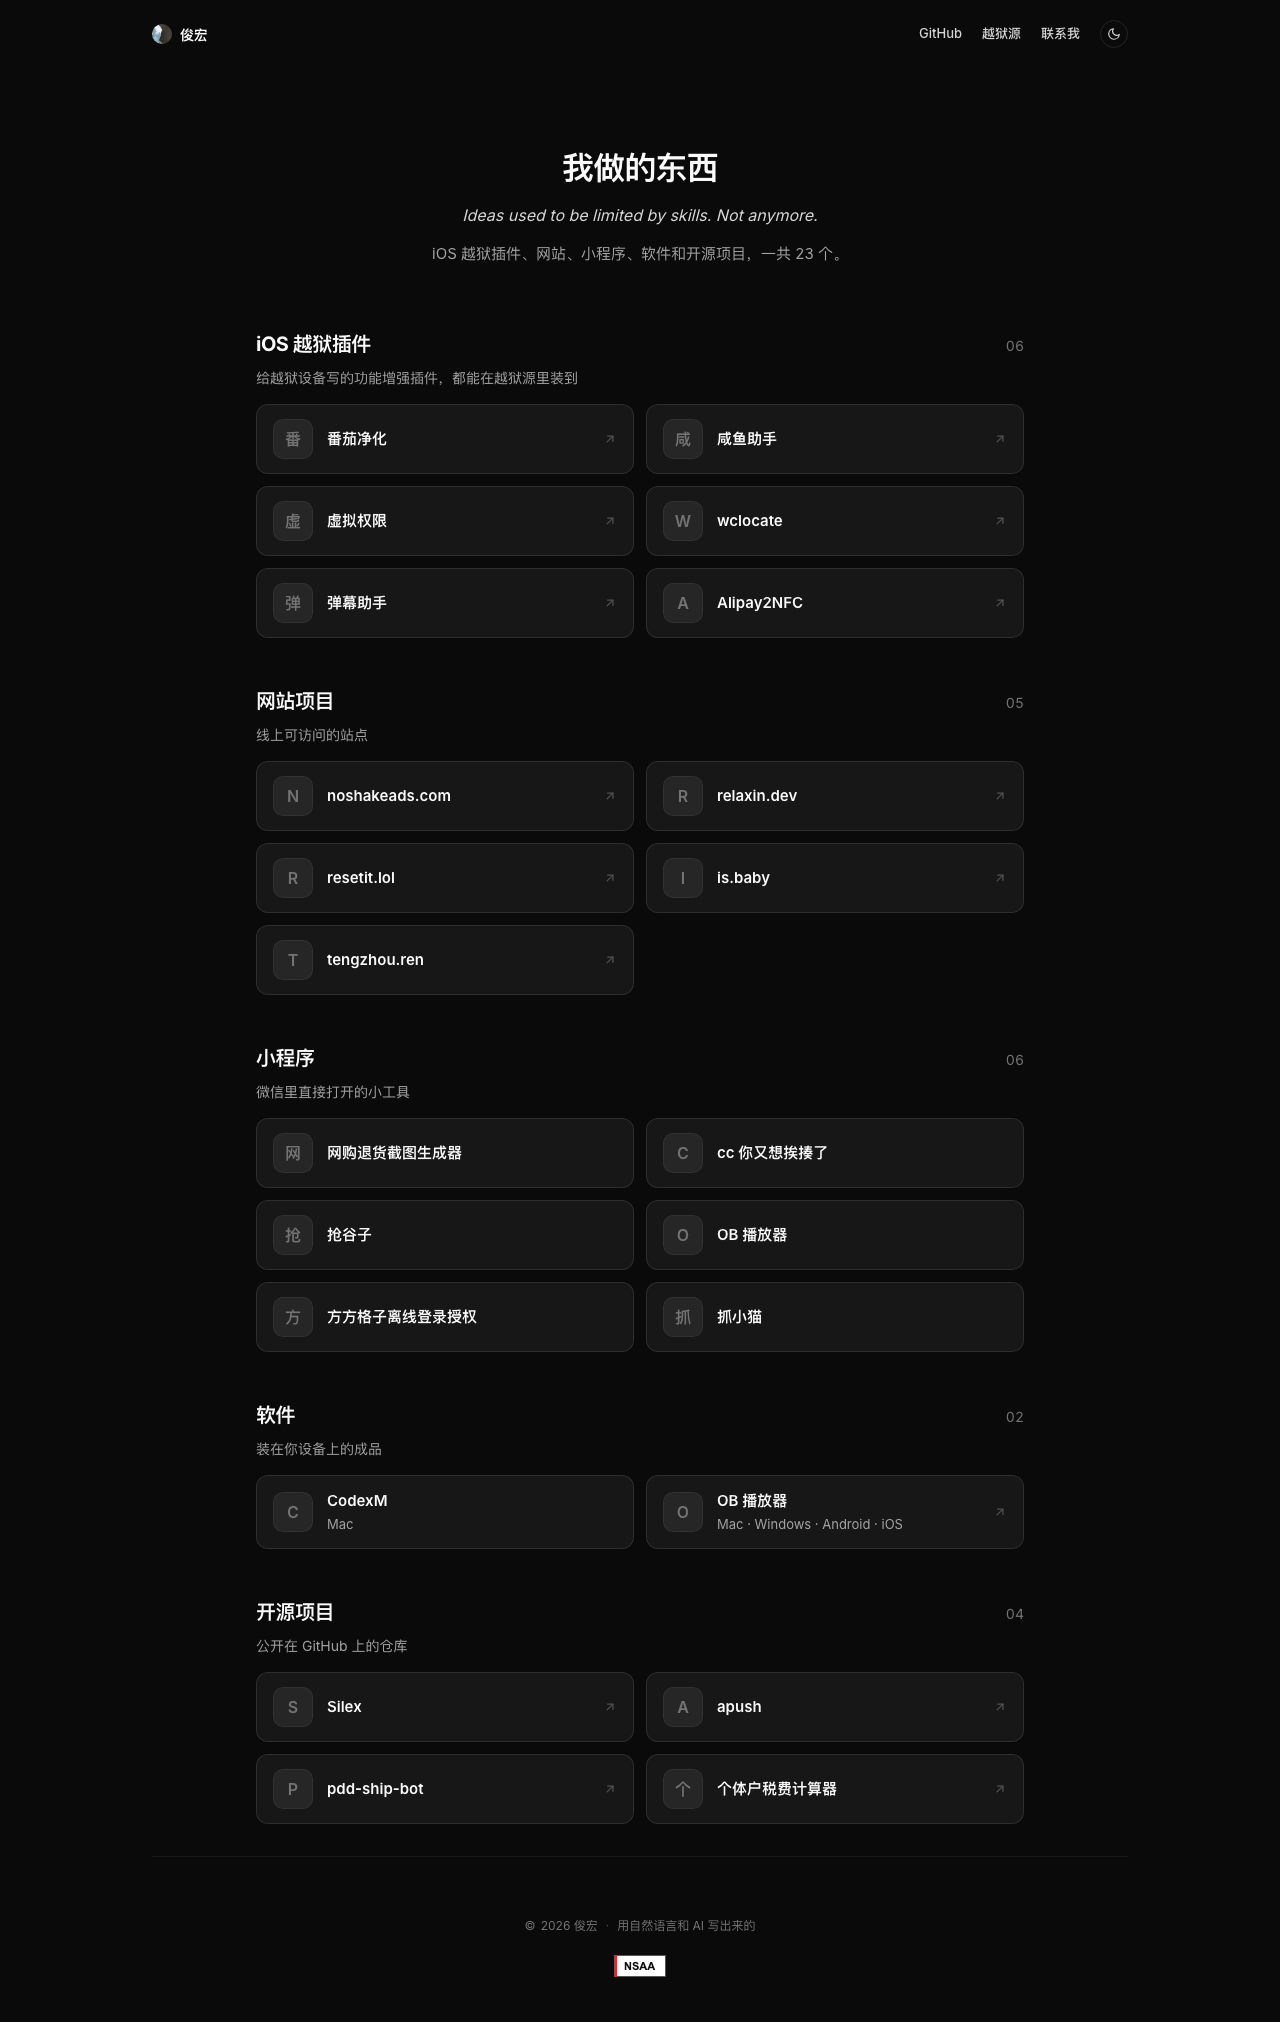
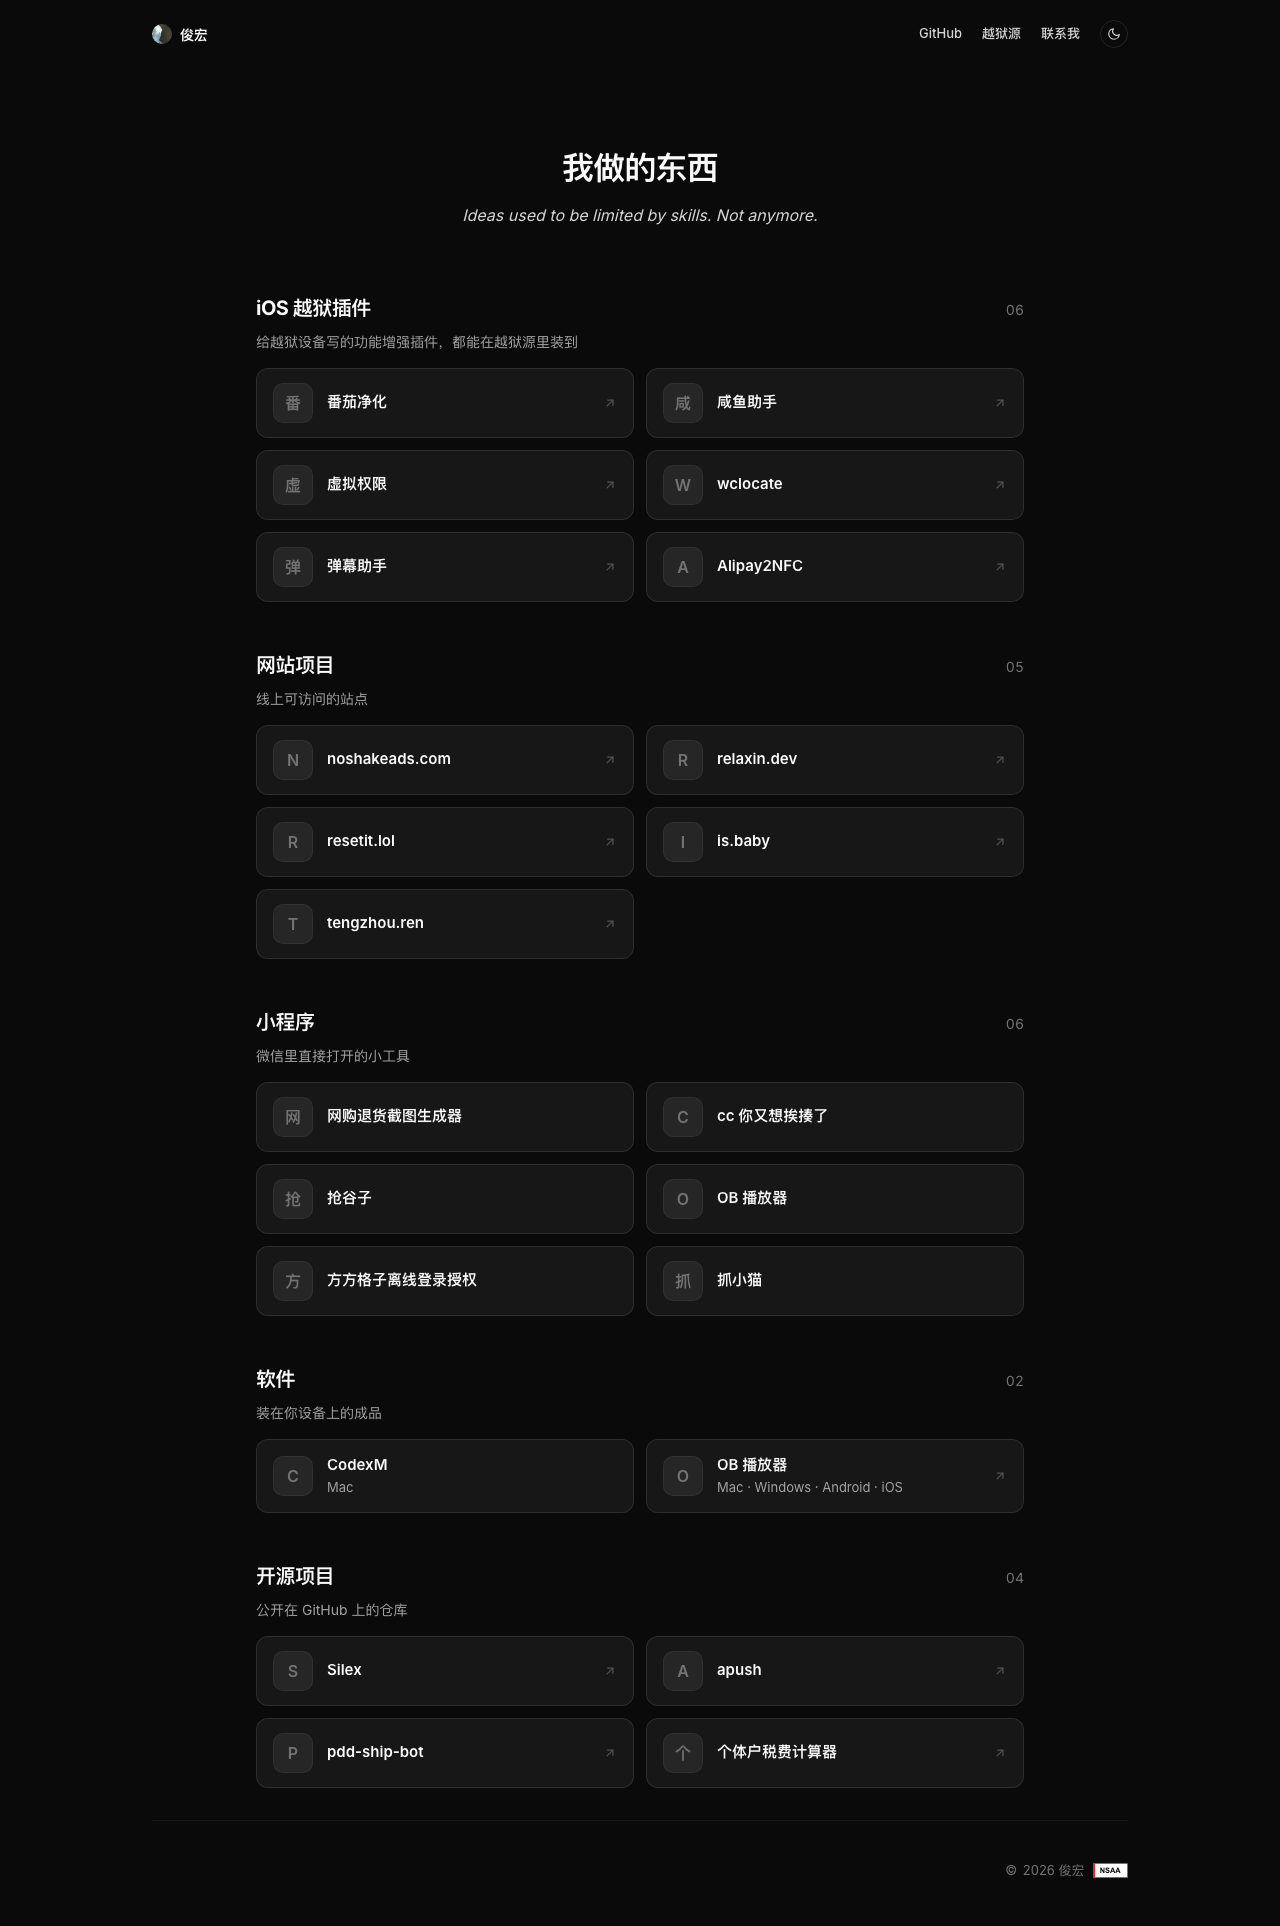
精简首屏与页脚
- 首屏移除副标题，只留大标题和座右铭
- 页脚移除「用自然语言和 AI 写出来的」
- 版权与 noshakeads 徽章合并为同一行，右对齐
- 徽章高度 22px -> 15px，与旁边 13px 版权文字协调

diff --git a/assets/app.js b/assets/app.js
@@ -234,21 +234,22 @@
       footer.appendChild(links);
     }
 
-    // 第三行：版权
+    // 底行：版权 + 徽章，同一行右对齐
+    var bottom = el("div", "footer__bottom");
+
     var year = s.year || new Date().getFullYear();
-    var copy = el("p", "footer__copy");
+    var copy = el("span", "footer__copy");
     copy.appendChild(el("span", "footer__c", { "aria-hidden": "true", textContent: "©" }));
     copy.appendChild(document.createTextNode(" " + year + " " + (s.name || "")));
     if (s.footerNote) {
       copy.appendChild(el("span", "footer__sep", { "aria-hidden": "true", textContent: "·" }));
       copy.appendChild(document.createTextNode(s.footerNote));
     }
-    footer.appendChild(copy);
+    bottom.appendChild(copy);
 
-    // 第四行：徽章（可选）
+    // 徽章（可选）
     if (s.badge && s.badge.src) {
-      var badgeWrap = el("p", "footer__badge");
-      var badgeLink = el("a", null, { href: s.badge.href || "#" });
+      var badgeLink = el("a", "footer__badge", { href: s.badge.href || "#" });
       if (external(s.badge.href)) {
         badgeLink.setAttribute("target", "_blank");
         badgeLink.setAttribute("rel", "noreferrer");
@@ -262,9 +263,10 @@
           loading: "lazy",
         })
       );
-      badgeWrap.appendChild(badgeLink);
-      footer.appendChild(badgeWrap);
+      bottom.appendChild(badgeLink);
     }
+
+    footer.appendChild(bottom);
 
     return footer;
   }

diff --git a/assets/styles.css b/assets/styles.css
@@ -508,31 +508,36 @@ main {
   gap: 0.25rem;
 }
 
+/* 底行：版权 + 徽章，同一行右对齐 */
+.footer__bottom {
+  display: flex;
+  align-items: center;
+  justify-content: flex-end;
+  flex-wrap: wrap;
+  gap: 0.5rem;
+}
+
 .footer__copy {
-  margin-top: 1.25rem;
-  font-size: 12px;
+  font-size: 13px;
   color: var(--muted-soft);
 }
 
-/* 页脚徽章 */
 .footer__badge {
-  display: flex;
-  justify-content: center;
-  margin-top: 1.25rem;
-}
-
-.footer__badge a {
   display: inline-flex;
+  align-items: center;
   transition: opacity 0.15s, transform 0.15s;
 }
 
-.footer__badge a:hover {
+.footer__badge:hover {
   opacity: 0.8;
   transform: translateY(-1px);
 }
 
+/* 高度跟旁边 13px 的版权文字接近，不喧宾夺主 */
 .footer__badge img {
   display: block;
+  width: auto;
+  height: 15px;
   border: 0;
 }
 

diff --git a/assets/projects.js b/assets/projects.js
@@ -27,8 +27,6 @@ window.SITE = {
     logo: "touxiang.jpg",
     title: "我做的东西",
     motto: "Ideas used to be limited by skills. Not anymore.", // 首屏座右铭，不想要就删掉这行
-    subtitle: "iOS 越狱插件、网站、小程序、软件和开源项目，一共 23 个。",
-    footerNote: "用自然语言和 AI 写出来的", // 版权后面那句小字
     year: null, // 留 null 自动取当前年份
 
     // 页脚的徽章，不想要就删掉这一项
